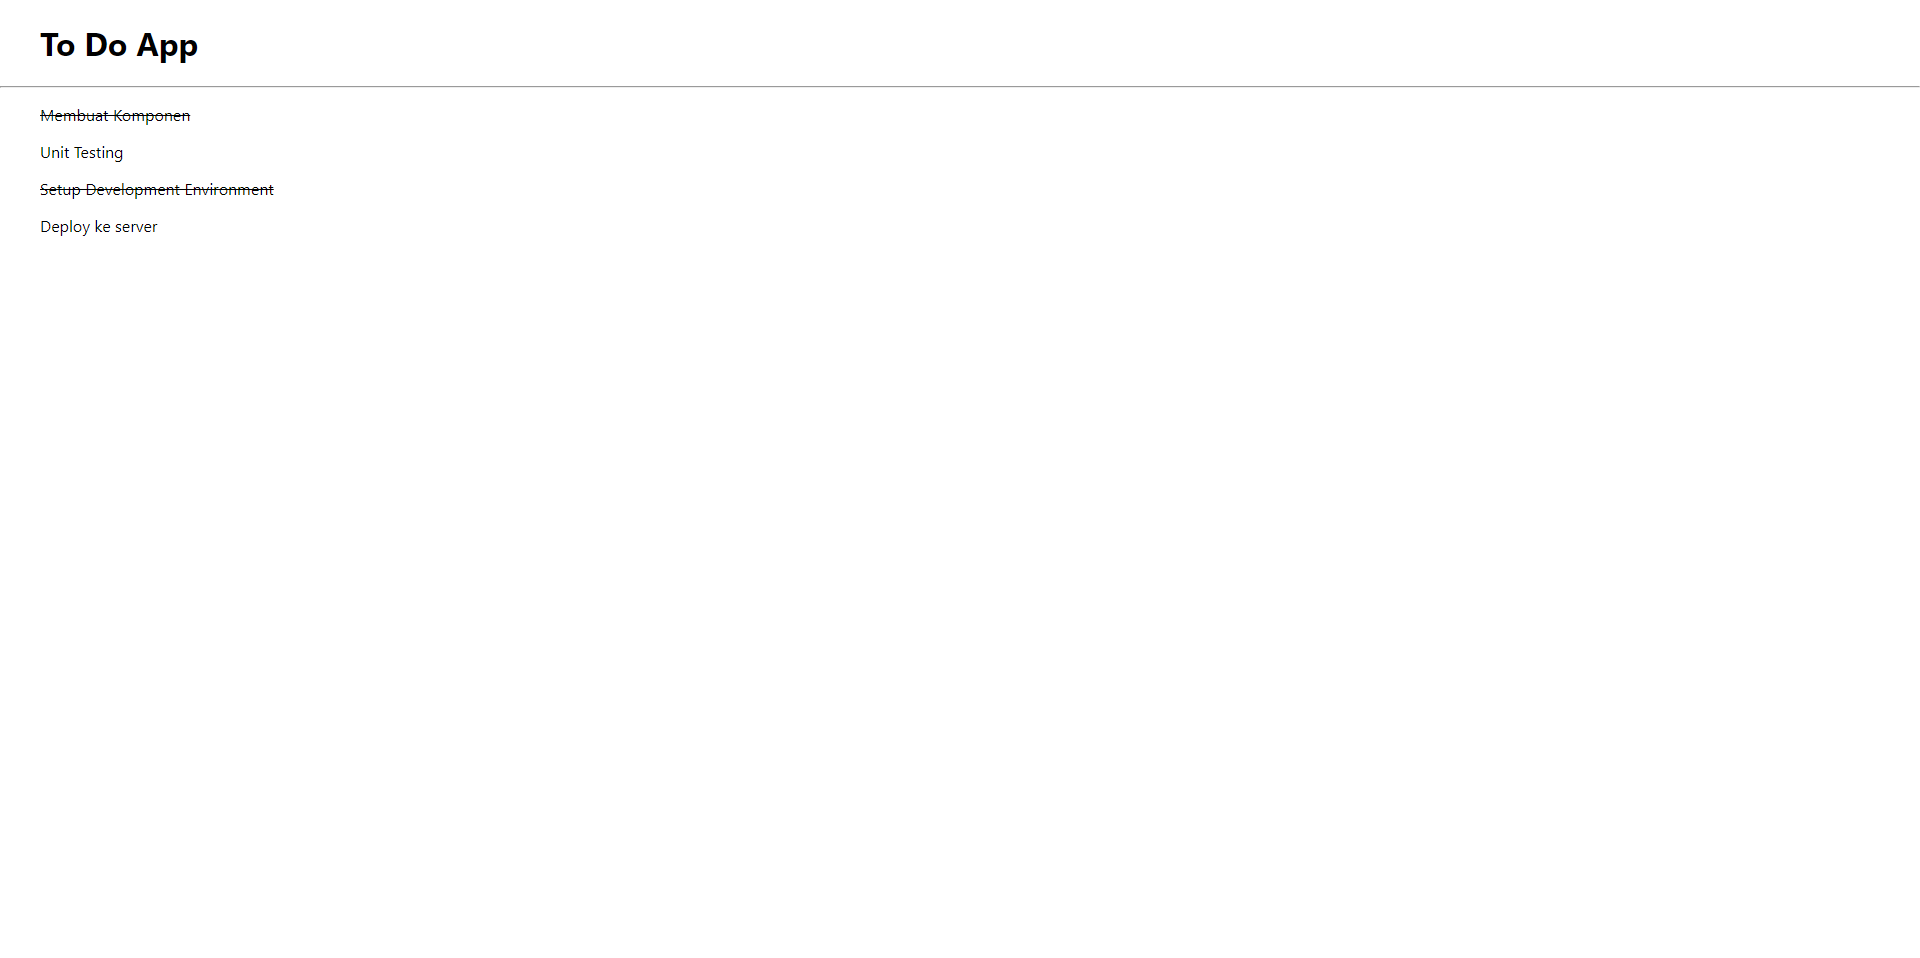
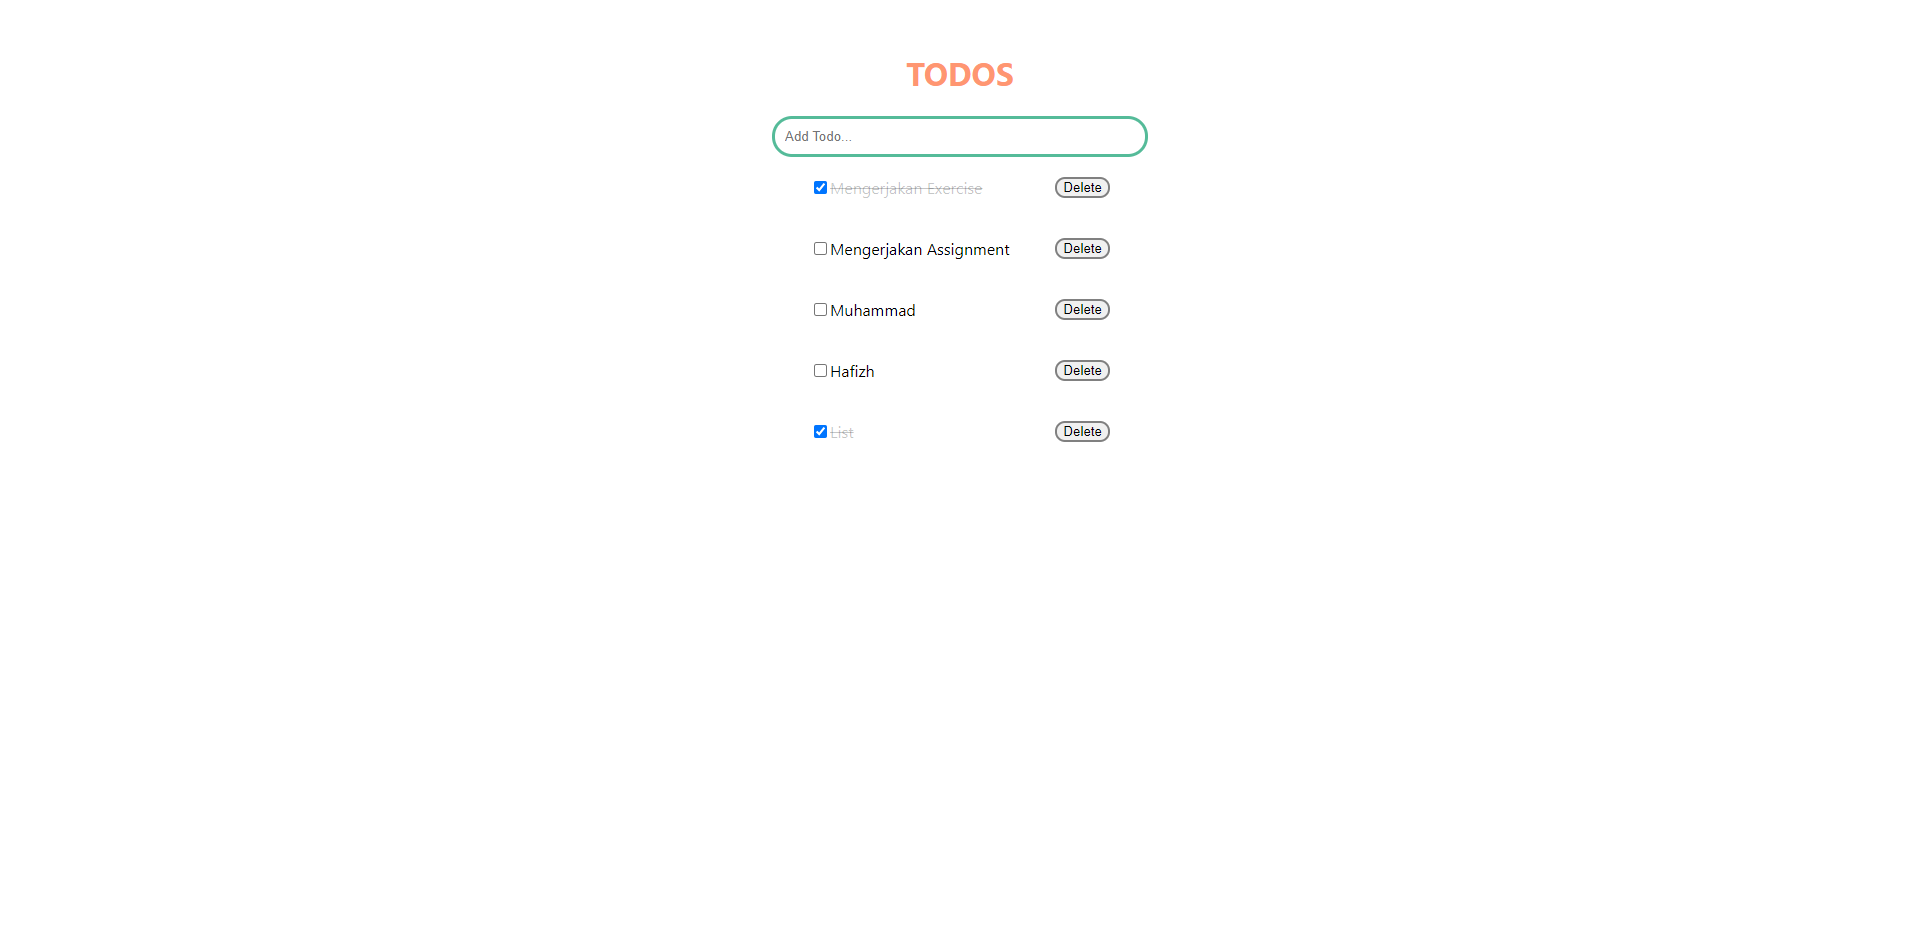
React handlingEvent

diff --git a/eventhandling/src/App.js b/eventhandling/src/App.js
@@ -1,0 +1,62 @@
+/* eslint-disable no-unused-expressions */
+import { useState } from 'react';
+import './App.css';
+
+function App() {
+  const [works, setWorks] = useState([
+      { id : 1, title : "Mengerjakan Exercise", completed : true},
+      { id : 2, title : "Mengerjakan Assignment", completed: false}
+    ]
+  )
+
+  const [titleWork, setTitleWork] = useState('')
+
+  const handleSubmit = (e) => {
+    e.preventDefault()
+    let newID = works.length
+    setWorks(prevWork => [...prevWork, {id : newID + 1, title : titleWork, completed : false}])
+    setTitleWork('')
+  }
+
+  const handleCompleted = (idFind) => {
+    const textCompeleted = works.map((work) => {
+      if (work.id === idFind.id) {
+        return { ...work, completed: !work.completed };
+      } else {
+        return work;
+      }
+    });
+
+    setWorks(textCompeleted)
+  }
+
+  const handleDelete = (idDelete) => {
+    const deleteList = works.filter((work) => {
+      return work.id !== idDelete.id
+    })
+
+    setWorks(deleteList)
+  }
+
+  return (
+    <div className="App">
+      <h1>TODOS</h1>
+      <form onSubmit={handleSubmit}>
+        <input placeholder='Add Todo...' value={titleWork} onChange={(e) => setTitleWork(e.target.value)} />
+      </form>
+      {works.map(work => {
+        return (
+          <ul key={work.id}>
+            <li className='list'>
+              <input type='checkbox' value={work.id} defaultChecked={work.completed} onClick={() => handleCompleted(work)} />
+              <span className={work.completed === true ? 'list-completed' : ''}>{work.title}</span>
+              <button onClick={() => handleDelete(work)}>Delete</button>
+            </li>
+          </ul>
+        )
+      })}
+    </div>
+  );
+}
+
+export default App;

diff --git a/eventhandling/src/App.css b/eventhandling/src/App.css
@@ -1,5 +1,33 @@
 .App {
-  text-align: left;
+  padding-top: 30px;
+  text-align: center;
+}
+
+.App h1 {
+  color: #FF9671;  /* fallback for old browsers */
+}
+
+.App form input{
+  width: 350px;
+  border: 3px solid rgb(85, 187, 153);
+  border-radius: 20px;
+  padding: 10px;
+}
+
+.App ul {
+  width: 300px;
+  margin: auto;
+  padding: 20px;
+}
+
+.App ul li{
+  display: flex;
+}
+
+.App ul li button {
+  margin-left: auto;
+  border: 2px solid gray;
+  border-radius: 10px;
 }
 
 .App-logo {
@@ -7,13 +35,13 @@
   pointer-events: none;
 }
 
-h1 {
-  margin-left: 40px;
+.list-completed {
+  text-decoration: line-through;
+  color:rgba(39, 40, 44, 0.267);
 }
 
-ul li {
+.list {
   list-style: none;
-  text-align: left;
 }
 
 @media (prefers-reduced-motion: no-preference) {

diff --git a/eventhandling/src/index.js b/eventhandling/src/index.js
@@ -9,4 +9,3 @@ root.render(
     <App />
   </React.StrictMode>
 );
-

diff --git a/README.md b/README.md
@@ -1,15 +1,25 @@
-# React Fundamental Course By Alterra Academy
+# React event handling Course By Alterra Academy
 
-- Perkenalan materi JSX
+- State adalah data private sebuah component dan ciri - cirinya adalah : 
+    1. Data yang bisa dimodifikasi menggunakan setState
+    2. Setiap terjadi notifikasi akan terjadi render ulang
+    3. Bersifat Asynchronus
+    4. Dipakai dalam class
 
-- Penggunaan komponen pada react
+- Stateful component adalah memiliki state dan component ini dibuat dengan class yang tentunya memiliki lifeCycle dan ciri - cirinya adalah :
+    1. Mengerti tentang aplikasi
+    2. Melakukan data fetching (pengambilan data)
+    3. Berinteraksi dengan aplikasi
+    4. Tidak dapat digunakan kembali
+    5. Meneruskan status dan data ke anak - anaknya
 
-- Komposisi komponen dan props
+- Stateless Component adalah tidak memiliki state hanya prop dan umumnya dibuat menggunakan function dan ciri - cirinya adalah :
+    1. Tidak tahu tentang aplikasi
+    2. Tidak melakukan data fetching (pengambilan data)
+    3. Tujuan utamanya adalah visualisasi
+    4. Dapat digunakan kembali
+    5. Hanya berkomunikasi dengan induk langsungnya
 
-- Pengenalan React Lifecycle
+- Handling event adalah suatu metode untuk menangani sebuah event / aksi yang diberikan kepada suatu komponen
 
-- Conditional rendering pada react
-
-- Struktur direktori para react
-
-- Styling pada react
+- Event adalah suatu peristiwa yang dipicu oleh pengguna pada suatu komponen, misalnya button onclick
